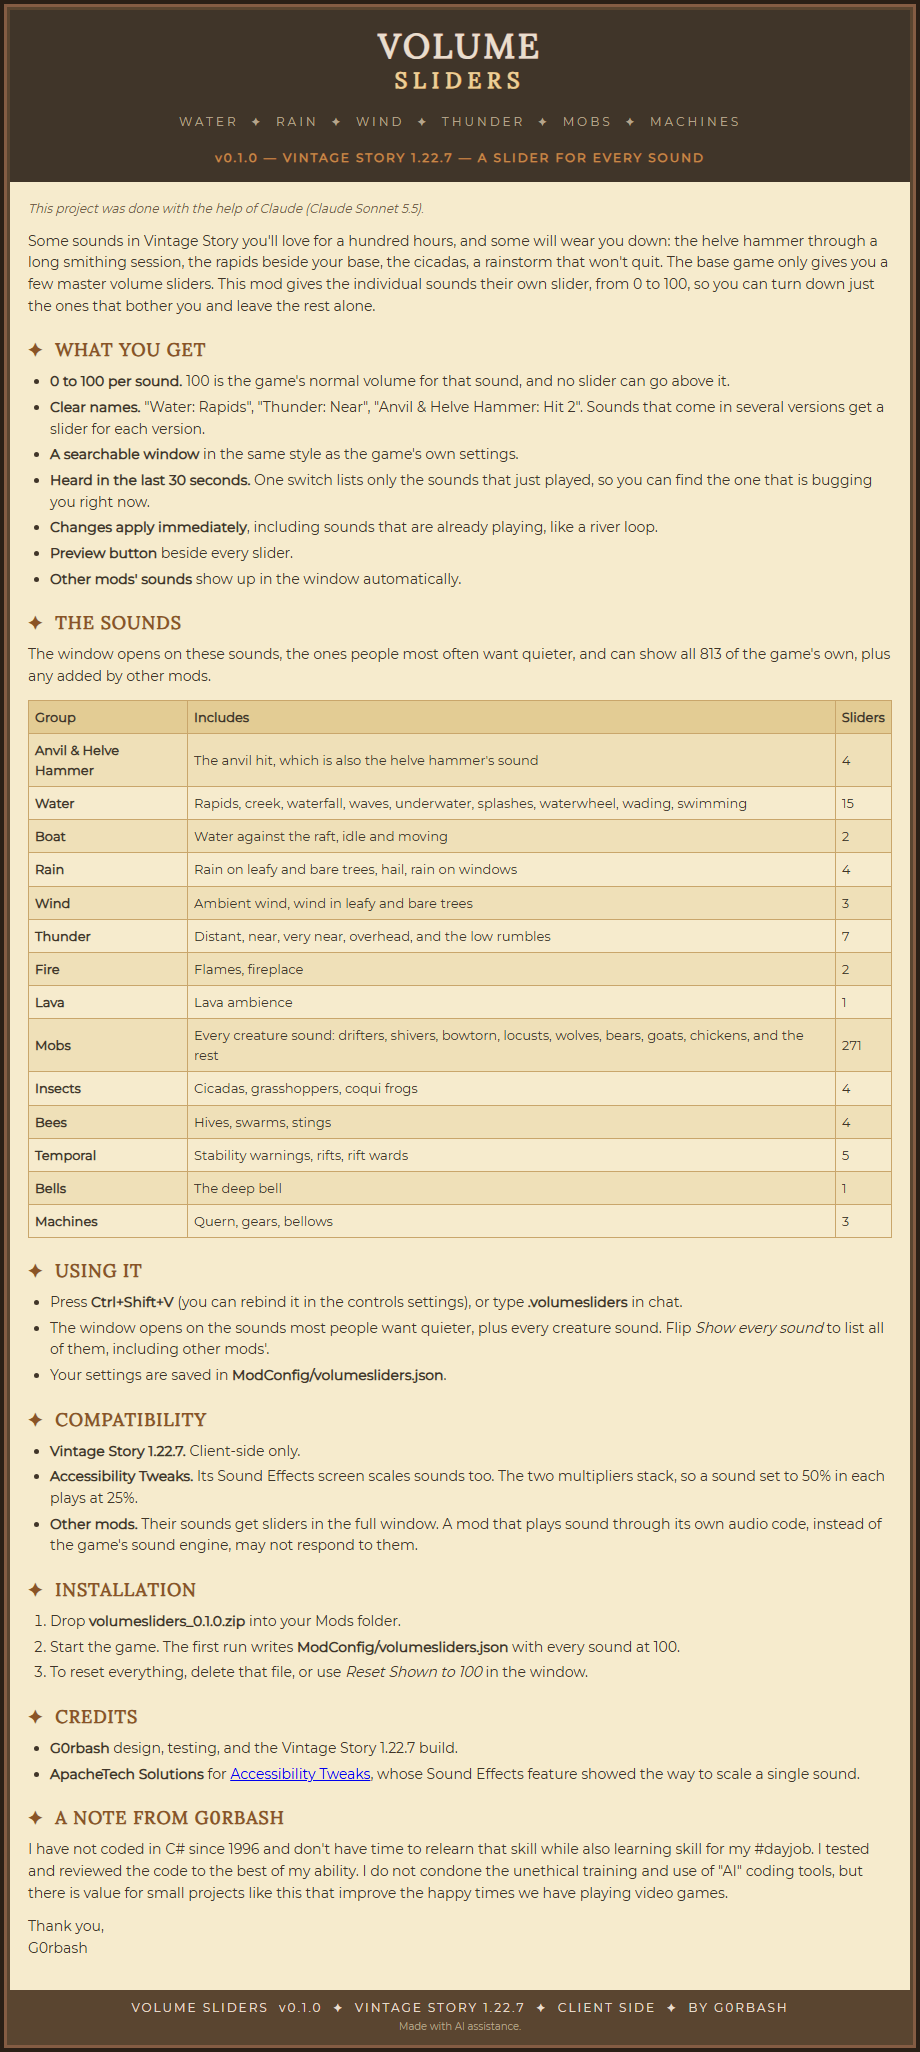
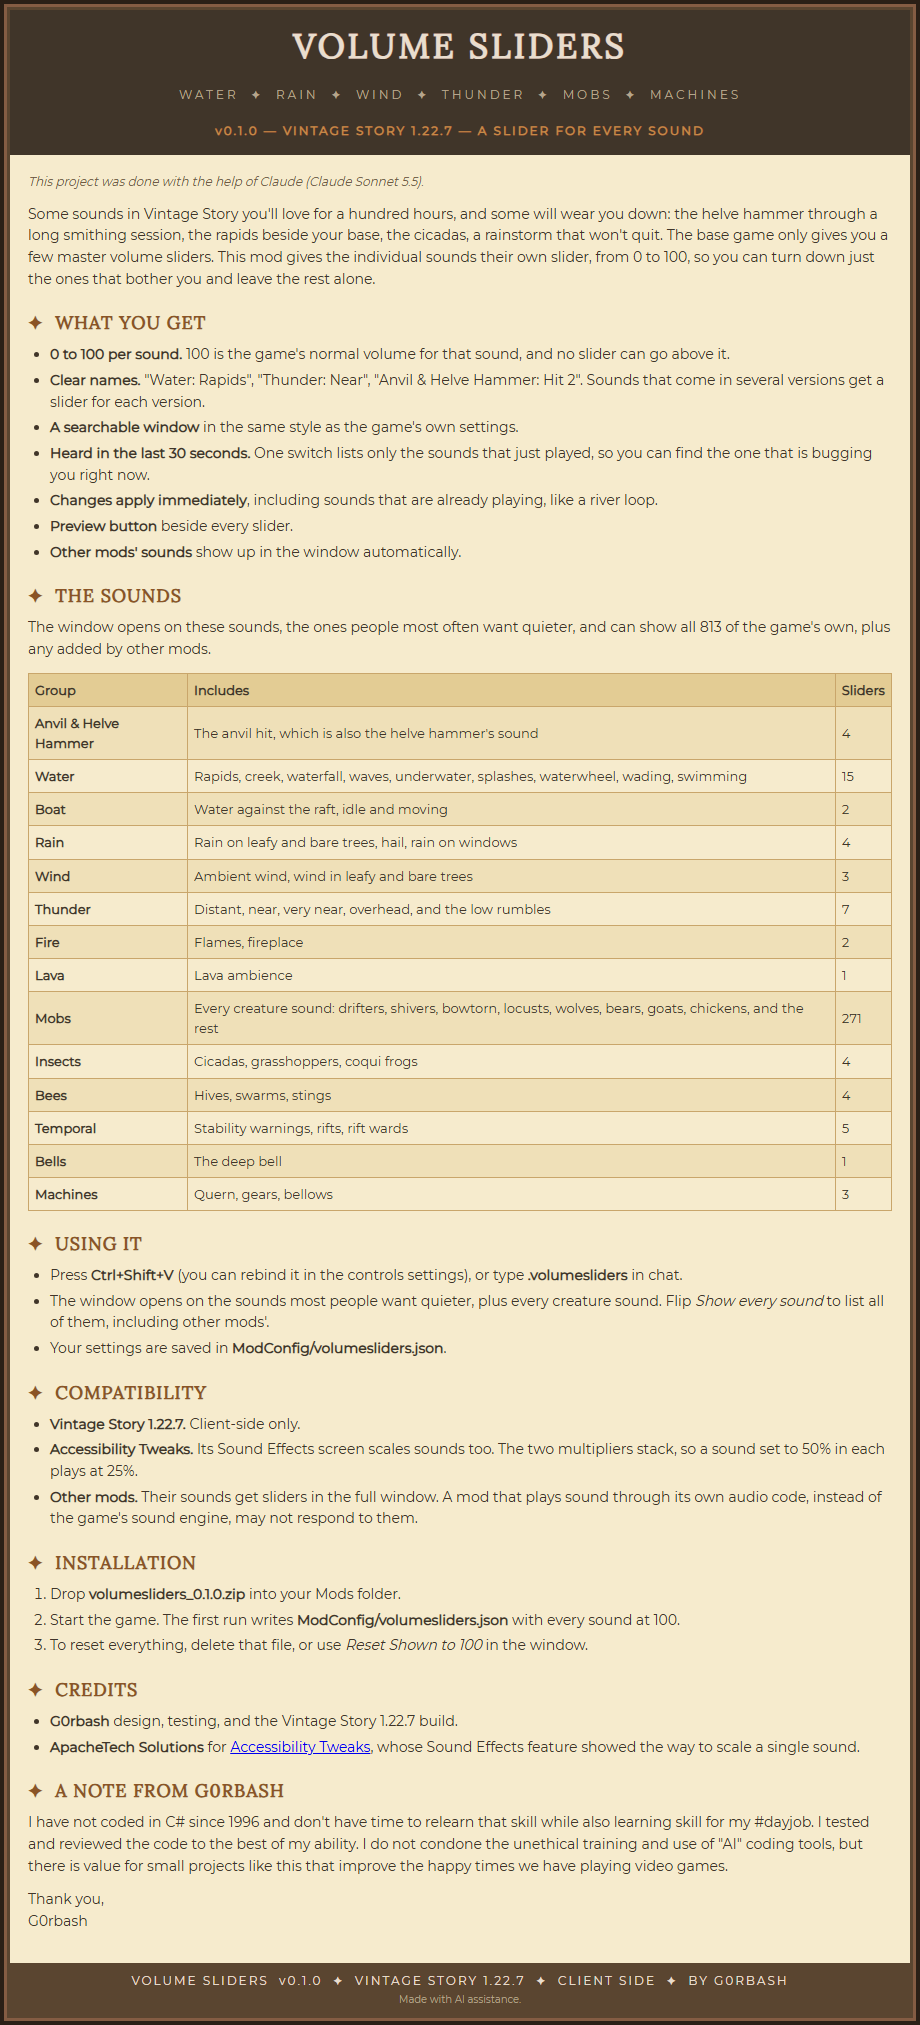
Put the Volume Sliders title on one line

diff --git a/docs/moddb-description.html b/docs/moddb-description.html
@@ -1,5 +1,5 @@
 <!-- Paste into the mod description editor on mods.vintagestory.at (source / HTML view). Generated by tools/make_description.py; edit the content there. -->
-<div style="max-width: 920px;"><table style="border-collapse: collapse; width: 100%;" cellpadding="0"><tbody><tr><td style="background: #2a1f16; padding: 4px;"><table style="border-collapse: collapse; width: 100%;" cellpadding="0"><tbody><tr><td style="background: #845c43; padding: 3px;"><table style="border-collapse: collapse; width: 100%;" cellpadding="0"><tbody><tr><td style="background: #5a4530; padding: 3px;"><table style="border-collapse: collapse; width: 100%;" cellpadding="16"><tbody><tr><td style="background: #403529;" align="center"><span style="font-family: Lora, Georgia, 'Times New Roman', serif; font-size: 34px; font-weight: bold; letter-spacing: 3px; color: #e9ddce;">VOLUME</span><br><span style="font-family: Lora, Georgia, 'Times New Roman', serif; font-size: 22px; font-weight: bold; letter-spacing: 6px; color: #edce98;">SLIDERS</span><br><br><span style="font-family: Montserrat, Verdana, sans-serif; font-size: 12px; letter-spacing: 3px; color: #b5a48c;">WATER &nbsp;&#10022;&nbsp; RAIN &nbsp;&#10022;&nbsp; WIND &nbsp;&#10022;&nbsp; THUNDER &nbsp;&#10022;&nbsp; MOBS &nbsp;&#10022;&nbsp; MACHINES</span><br><br><span style="font-family: Montserrat, Verdana, sans-serif; font-size: 12px; font-weight: bold; letter-spacing: 2px; color: #c58948;">v0.1.0 &mdash; VINTAGE STORY 1.22.7 &mdash; A SLIDER FOR EVERY SOUND</span></td></tr></tbody></table><table style="border-collapse: collapse; width: 100%;" cellpadding="18"><tbody><tr><td style="background: #f6ebcd; color: #403529; font-family: Montserrat, Verdana, sans-serif; font-size: 14px; line-height: 1.55;">
+<div style="max-width: 920px;"><table style="border-collapse: collapse; width: 100%;" cellpadding="0"><tbody><tr><td style="background: #2a1f16; padding: 4px;"><table style="border-collapse: collapse; width: 100%;" cellpadding="0"><tbody><tr><td style="background: #845c43; padding: 3px;"><table style="border-collapse: collapse; width: 100%;" cellpadding="0"><tbody><tr><td style="background: #5a4530; padding: 3px;"><table style="border-collapse: collapse; width: 100%;" cellpadding="16"><tbody><tr><td style="background: #403529;" align="center"><span style="font-family: Lora, Georgia, 'Times New Roman', serif; font-size: 34px; font-weight: bold; letter-spacing: 3px; color: #e9ddce;">VOLUME SLIDERS</span><br><br><span style="font-family: Montserrat, Verdana, sans-serif; font-size: 12px; letter-spacing: 3px; color: #b5a48c;">WATER &nbsp;&#10022;&nbsp; RAIN &nbsp;&#10022;&nbsp; WIND &nbsp;&#10022;&nbsp; THUNDER &nbsp;&#10022;&nbsp; MOBS &nbsp;&#10022;&nbsp; MACHINES</span><br><br><span style="font-family: Montserrat, Verdana, sans-serif; font-size: 12px; font-weight: bold; letter-spacing: 2px; color: #c58948;">v0.1.0 &mdash; VINTAGE STORY 1.22.7 &mdash; A SLIDER FOR EVERY SOUND</span></td></tr></tbody></table><table style="border-collapse: collapse; width: 100%;" cellpadding="18"><tbody><tr><td style="background: #f6ebcd; color: #403529; font-family: Montserrat, Verdana, sans-serif; font-size: 14px; line-height: 1.55;">
 <p style="margin: 0 0 12px 0; font-size: 12px; color: #6e5a44;"><i>This project was done with the help of Claude (Claude Sonnet 5.5).</i></p>
 <p style="margin: 0 0 12px 0;">Some sounds in Vintage Story you'll love for a hundred hours, and some will wear you down: the helve hammer through a long smithing session, the rapids beside your base, the cicadas, a rainstorm that won't quit. The base game only gives you a few master volume sliders. This mod gives the individual sounds their own slider, from 0 to 100, so you can turn down just the ones that bother you and leave the rest alone.</p>
 <p style="margin: 20px 0 6px 0; color: #8a5426; font-family: Lora, Georgia, 'Times New Roman', serif; font-size: 18px; font-weight: bold; letter-spacing: 1px;">&#10022;&nbsp; WHAT YOU GET</p>

diff --git a/tools/make_description.py b/tools/make_description.py
@@ -172,8 +172,7 @@ body = [
 ]
 
 title_cell = (f'<td style="background: #403529;" align="center">'
-              f'<span style="{SERIF} font-size: 34px; font-weight: bold; letter-spacing: 3px; color: #e9ddce;">VOLUME</span><br>'
-              f'<span style="{SERIF} font-size: 22px; font-weight: bold; letter-spacing: 6px; color: #edce98;">SLIDERS</span><br><br>'
+              f'<span style="{SERIF} font-size: 34px; font-weight: bold; letter-spacing: 3px; color: #e9ddce;">VOLUME SLIDERS</span><br><br>'
               f'<span style="{SANS} font-size: 12px; letter-spacing: 3px; color: #b5a48c;">WATER &nbsp;&#10022;&nbsp; RAIN &nbsp;&#10022;&nbsp; WIND &nbsp;&#10022;&nbsp; THUNDER &nbsp;&#10022;&nbsp; MOBS &nbsp;&#10022;&nbsp; MACHINES</span><br><br>'
               f'<span style="{SANS} font-size: 12px; font-weight: bold; letter-spacing: 2px; color: #c58948;">v{VERSION} &mdash; VINTAGE STORY {GAME} &mdash; A SLIDER FOR EVERY SOUND</span></td>')
 footer = (f'<td style="background: #5a4530;" align="center">'
